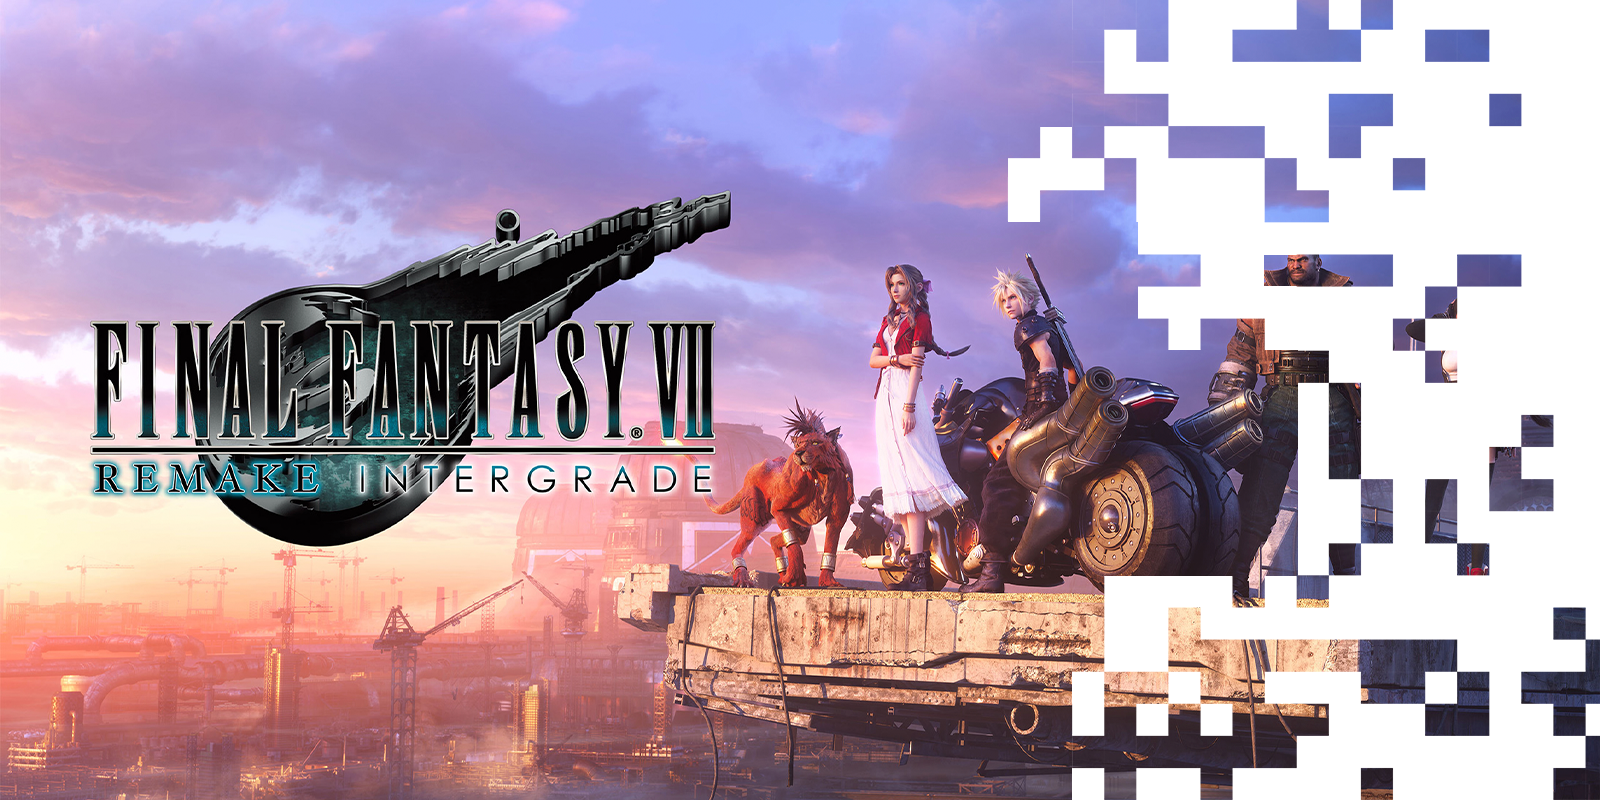
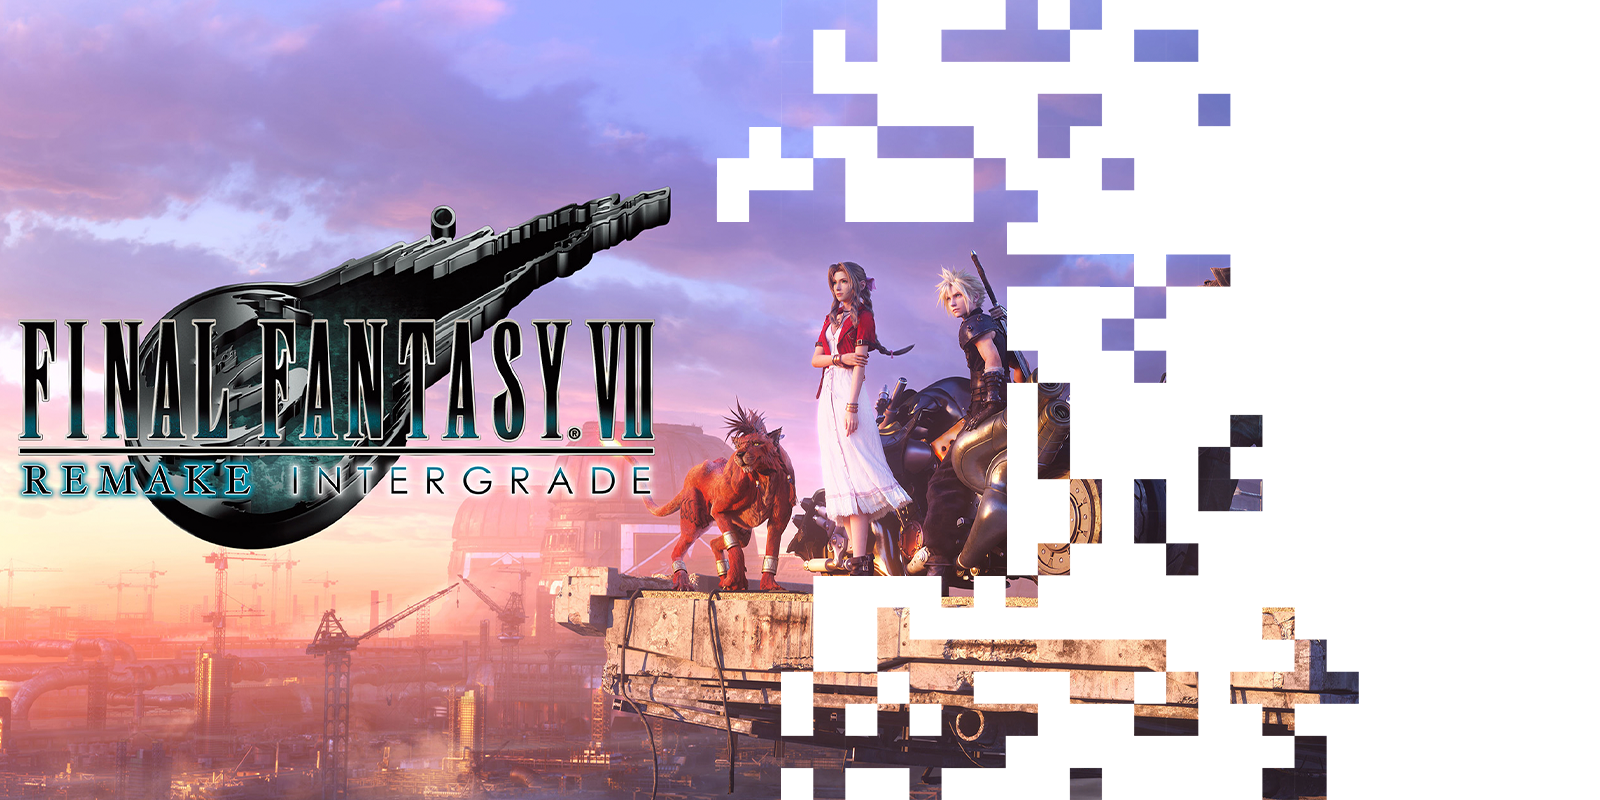
carousel now functional, added itemcount.js

diff --git a/src/components/HomeCarousel.js b/src/components/HomeCarousel.js
@@ -1,20 +1,23 @@
 import React from "react";
-import { Carousel } from "react-bootstrap";
+import { Carousel, Button } from "react-bootstrap";
 
 const gamesCollection = [
   {
     "title": "New Super Mario Bros. U Deluxe",
-    "src": require("../img/slide_mario.png"),
+    "heading": "On sale!",
+    "src": require("../img/slide_mario_web.png"),
     "description": "Join Mario, Luigi, and pals for single-player or multiplayer fun anytime, anywhere! Take on two family-friendly, side-scrolling adventures with up to three friends as you try to save the Mushroom Kingdom!",
   },
   {
     "title": "Final Fantasy 7 Remake Intergrade",
-    "src": require("../img/slide_ff7.png"),
+    "heading": "New arrival",
+    "src": require("../img/slide_ff7_web.png"),
     "description": "The world of the timeless classic FINAL FANTASY VII is reborn, using cutting-edge graphics technology, a new battle system and an additional adventure featuring Yuffie Kisaragi.",
   },
   {
     "title": "Skullgirls 2nd Encore: Umbrella is here!",
-    "src": require("../img/slide_skullgirls.png"),
+    "heading": "New DLC Available!",
+    "src": require("../img/slide_skullgirls_carousel.png"),
     "description": "Excuuuse me, Princess! Introducing the one and only UMBRELLA! As part of the Season Pass 1, the saltiest sibling in the Canopy Kingdom (and her insatiable monstrosity Hungern) have at long last joined the Skullgirls roster!"
   },
 ]
@@ -22,19 +25,26 @@ const gamesCollection = [
 const HomeCarousel = () => {
   return (
     <div>
-      <Carousel variant="dark">
+      <Carousel>
         {
           gamesCollection.map(
             (game, index) => (
-              <Carousel.Item key={index}>
-                <img
-                  className="d-block w-100"
+              <Carousel.Item key={index} id={"carousel-item-" + (index+1)}>
+                  <img
+                  className="d-block carousel-item-img"
                   src={game.src}
                   alt={game.title}
-                />
-                <Carousel.Caption>
-                  <h3>{game.title}</h3>
-                  <p>{game.description}</p>
+                  />
+                <Carousel.Caption className="d-grid">
+                  <div className="row" id={"carousel-item-caption-" + (index+1)}>
+                    <div className="col">
+                      <p className="carousel-item-heading">{game.heading}</p>
+                      <h3 className="carousel-item-title">{game.title}</h3>
+                      <p className="carousel-item-description">{game.description}</p>
+                      <Button className="carousel-item-button">Get it Now!</Button>
+                    </div>
+                    <div className="col"></div>
+                  </div>
                 </Carousel.Caption>
               </Carousel.Item>
             )

diff --git a/src/styles/Content.scss b/src/styles/Content.scss
@@ -7,6 +7,7 @@ body {
 .navbar {
     background-color: $color-key;
     text-transform: uppercase;
+    border-bottom: 2px solid white;
     &-brand {
         display: flex;
         margin: 0;
@@ -78,3 +79,87 @@ body {
     text-align: end;
 }
 
+.carousel {
+    &-caption {
+        bottom: 6rem;
+        text-align: left;
+    }
+    &-inner {
+        max-width: 100%;
+        height: auto;
+        max-height: 600px;
+    }
+    &-item {
+        height: auto;
+        max-height: 600px;
+        &-img {
+            width: 100%;
+            max-width: 100%;
+	        max-height: 100%;
+        }
+        &-title {
+            color: white;
+            text-transform: uppercase;
+            font-size: 3rem;
+        }
+        &-heading, &-description {
+            font-family: $font-secundary;
+        }
+        &-heading {
+            text-transform: uppercase;
+        }
+        &-button {
+            text-align: center;
+            text-transform: uppercase;
+        }
+    }
+}
+
+#carousel-item-1 {
+    background-color: $color-main;
+}
+
+#carousel-item-2 {
+    background-color: $color-secondary;
+}
+
+#carousel-item-3 {
+    background-color: $color-key;
+}
+
+#carousel-item-caption-1 {
+    .carousel-item {
+        &-description {
+            background-color: $color-main;
+        }
+    }
+}
+
+#carousel-item-caption-2 {
+    flex-direction: row-reverse;
+    text-align: right;
+    .carousel-item {
+        &-title {
+            color: white;
+            text-transform: uppercase;
+        }
+        &-description {
+            background-color: $color-secondary;
+        }
+    }
+}
+
+#carousel-item-caption-3 {
+    .carousel-item {
+        &-title {
+            background-color: $color-key;
+        }
+        &-description {
+            background-color: $color-key;
+            color: white;
+        }
+        &-heading {
+            color: white;
+        }
+    }
+}

diff --git a/src/App.js b/src/App.js
@@ -1,7 +1,7 @@
 import 'bootstrap/dist/css/bootstrap.min.css';
 import 'bootstrap-icons/font/bootstrap-icons.css';
 import NavBar from './components/NavBar';
-// import HomeCarousel from './components/HomeCarousel';
+import HomeCarousel from './components/HomeCarousel';
 import ItemListContainer from './components/ItemListContainer';
 import ItemCountModal from './components/ItemCountModal';
 import './App.scss';
@@ -10,7 +10,7 @@ function App() {
   return (
     <div className="App">
        <NavBar/>
-       {/* <HomeCarousel/> */}
+       <HomeCarousel/>
        <ItemListContainer/>
        <ItemCountModal/>
     </div>

diff --git a/src/components/ItemCount.js b/src/components/ItemCount.js
@@ -3,6 +3,10 @@ import { Button, InputGroup, Form, FormControl } from 'react-bootstrap';
 
 const ItemCount = ({initial, stock, onAdd}) => {
 
+    onAdd = () => {
+        alert("Product added to cart!");
+    }
+
     const [count, setCount] = useState(initial);
 
     const inc = () => {
